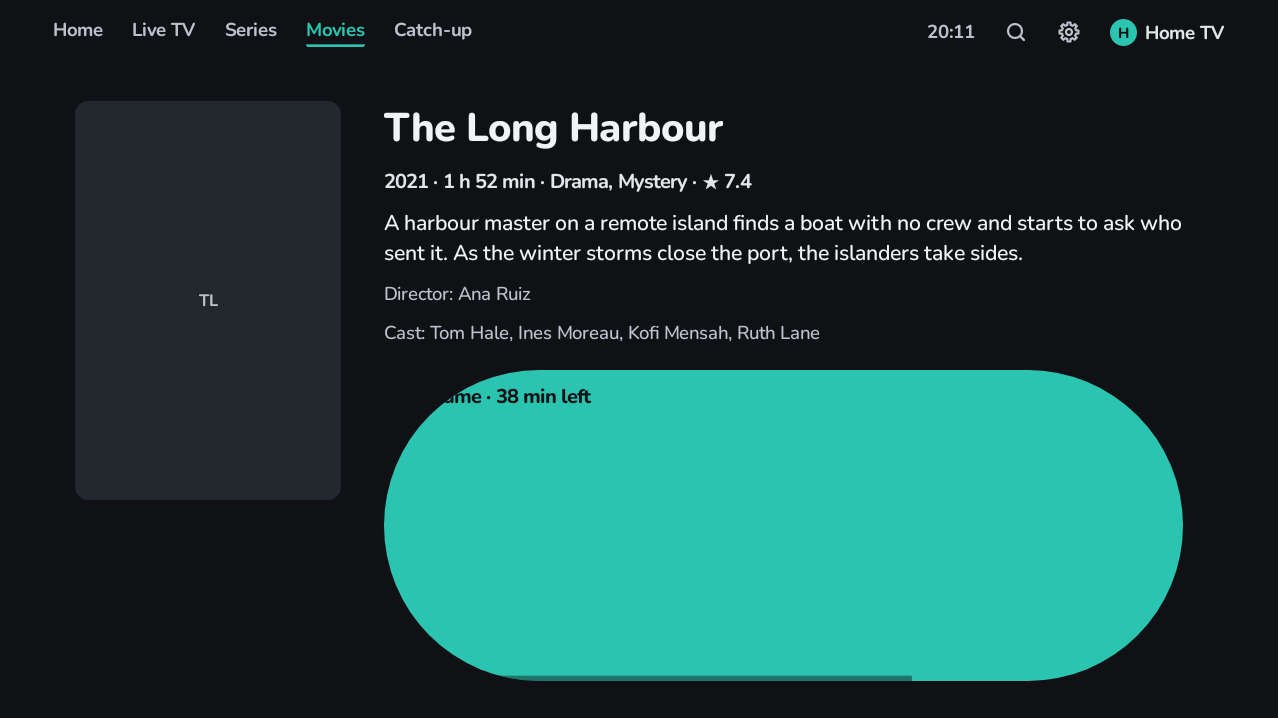
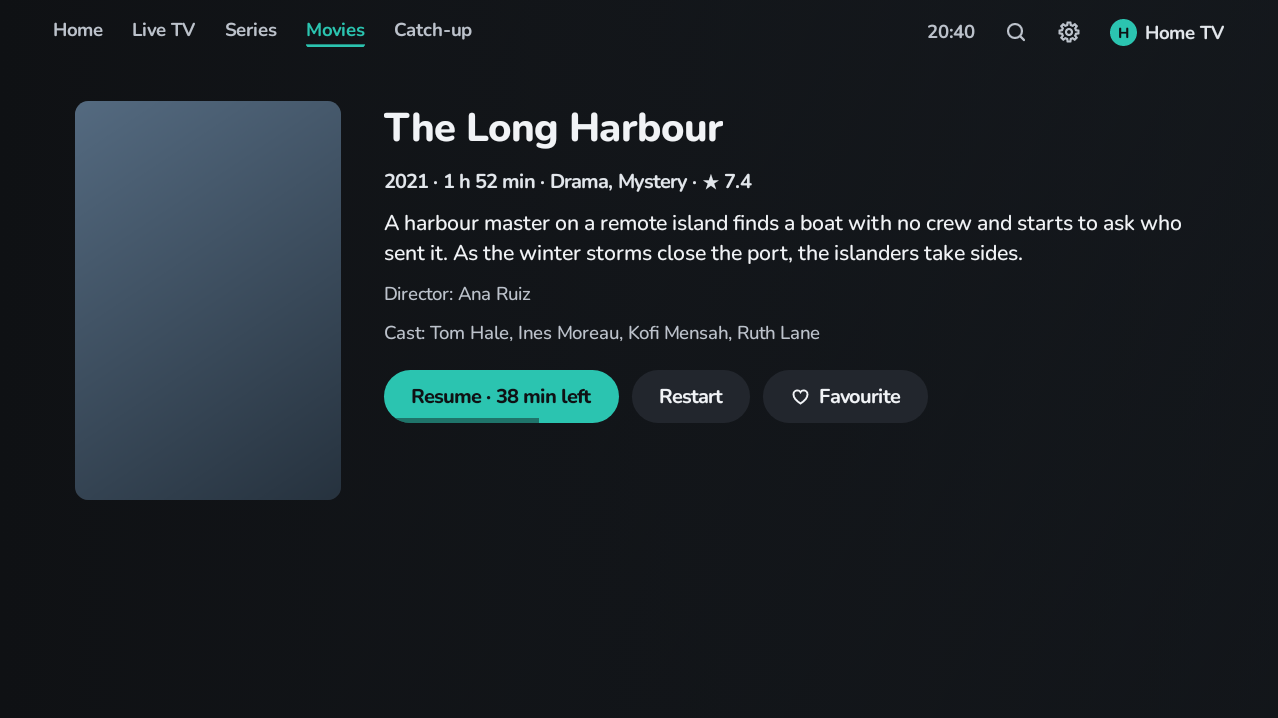
Redesign: Resume is a normal pill, series plot up to 4 lines
- The progress bar under Resume took the whole row and made the button
  fill the area under the cast line. The bar is now a layer that takes
  the button's size, so Restart and Favourite show beside it again.
- The series plot in the left column now shows up to 4 lines.
- The film screenshot test checks that Resume is as high as Favourite
  and to its left.

Claude-Session: https://claude.ai/code/session_01XanGeKN99Wd1hmQc73eoBg

diff --git a/app/src/main/java/com/biskyt/mytvplayer/ui/vod/DetailsParts.kt b/app/src/main/java/com/biskyt/mytvplayer/ui/vod/DetailsParts.kt
@@ -3,8 +3,11 @@ package com.biskyt.mytvplayer.ui.vod
 import androidx.compose.foundation.background
 import androidx.compose.foundation.layout.Arrangement
 import androidx.compose.foundation.layout.Box
+import androidx.compose.foundation.layout.BoxScope
 import androidx.compose.foundation.layout.Row
 import androidx.compose.foundation.layout.fillMaxSize
+import androidx.compose.foundation.layout.fillMaxWidth
+import androidx.compose.foundation.layout.height
 import androidx.compose.foundation.layout.padding
 import androidx.compose.foundation.layout.size
 import androidx.compose.foundation.shape.RoundedCornerShape
@@ -12,9 +15,6 @@ import androidx.compose.runtime.Composable
 import androidx.compose.runtime.remember
 import androidx.compose.ui.Alignment
 import androidx.compose.ui.Modifier
-import androidx.compose.ui.draw.drawBehind
-import androidx.compose.ui.geometry.Offset
-import androidx.compose.ui.geometry.Size
 import androidx.compose.ui.graphics.Brush
 import androidx.compose.ui.graphics.Color
 import androidx.compose.ui.graphics.vector.ImageVector
@@ -106,7 +106,7 @@ private fun PillSurface(
     focusedBackground: Color,
     focusedContent: Color,
     ring: Boolean,
-    body: @Composable () -> Unit
+    body: @Composable BoxScope.() -> Unit
 ) = Surface(
     onClick = onClick,
     modifier = modifier.onTap(onClick = onClick),
@@ -122,19 +122,16 @@ private fun PillSurface(
     border = if (ring) ClickableSurfaceDefaults.border(focusedBorder = Border(FocusStroke)) else ClickableSurfaceDefaults.border()
 ) { Box { body() } }
 
-/** How far into the film: a 4 px bar along the bottom of its button, in the page's background at 45 %. */
+/**
+ * How far into the film: a 4 px bar along the bottom of its button, in the page's background at 45 %. It takes the
+ * button's size and does not set it.
+ */
 @Composable
-private fun ButtonProgress(fraction: Float) {
-    Box(
-        Modifier.fillMaxSize().drawBehind {
-            val h = 4.bd.toPx()
-            drawRect(
-                Palette.background.copy(alpha = 0.45f),
-                topLeft = Offset(0f, size.height - h),
-                size = Size(size.width * fraction.coerceIn(0f, 1f), h)
-            )
-        }
-    )
+private fun BoxScope.ButtonProgress(fraction: Float) {
+    // matchParentSize: measured after the text, so the bar never makes the button larger.
+    Box(Modifier.matchParentSize(), contentAlignment = Alignment.BottomStart) {
+        Box(Modifier.fillMaxWidth(fraction.coerceIn(0f, 1f)).height(4.bd).background(Palette.background.copy(alpha = 0.45f)))
+    }
 }
 
 /** The backdrop, faded behind a gradient from the left, when there is one; nothing when there is none. */

diff --git a/app/src/test/java/com/biskyt/mytvplayer/ui/DetailPagesScreenshotTest.kt b/app/src/test/java/com/biskyt/mytvplayer/ui/DetailPagesScreenshotTest.kt
@@ -11,6 +11,8 @@ import androidx.compose.foundation.layout.fillMaxSize
 import androidx.compose.runtime.remember
 import androidx.compose.ui.Modifier
 import androidx.compose.ui.semantics.SemanticsActions
+import androidx.compose.ui.test.assertIsDisplayed
+import androidx.compose.ui.test.getBoundsInRoot
 import androidx.compose.ui.test.hasClickAction
 import androidx.compose.ui.test.hasText
 import androidx.compose.ui.test.onRoot
@@ -33,6 +35,7 @@ import com.github.takahirom.roborazzi.captureRoboImage
 import java.io.ByteArrayOutputStream
 import kotlinx.coroutines.runBlocking
 import org.junit.After
+import org.junit.Assert.assertEquals
 import org.junit.Assert.assertTrue
 import org.junit.Rule
 import org.junit.Test
@@ -108,6 +111,11 @@ class DetailPagesScreenshotTest {
         compose.waitForText("Resume · 38 min left")
         compose.waitForText("Director: Ana Ruiz")
         compose.waitAdvancingClock { compose.focusedText().contains("Resume") }
+        // The progress bar must not size its button: Resume is a pill as high as Favourite, beside it on the screen.
+        val resume = compose.onNode(hasText("Resume · 38 min left") and hasClickAction()).getBoundsInRoot()
+        val favourite = compose.onNode(hasText("Favourite") and hasClickAction()).assertIsDisplayed().getBoundsInRoot()
+        assertEquals((favourite.bottom - favourite.top).value, (resume.bottom - resume.top).value, 1f)
+        assertTrue(resume.right < favourite.left)
         compose.onRoot().captureRoboImage("screenshots/redesign-film.png")
     }
 

diff --git a/app/src/main/java/com/biskyt/mytvplayer/ui/vod/SeriesDetailsScreen.kt b/app/src/main/java/com/biskyt/mytvplayer/ui/vod/SeriesDetailsScreen.kt
@@ -280,8 +280,8 @@ fun SeriesColumn(
             )
         }
         extraFacts()
-        // 2 lines, so that Continue and Favourite fit under it.
-        d?.info?.plot?.let { Text(it, style = SeriesPlot.current, maxLines = 2, overflow = TextOverflow.Ellipsis) }
+        // 4 lines at most: the column scrolls, so the buttons stay in reach.
+        d?.info?.plot?.let { Text(it, style = SeriesPlot.current, maxLines = 4, overflow = TextOverflow.Ellipsis) }
         // Room under the last button for its focus ring: the scrolled column clips what is outside it.
         Column(
             Modifier.padding(top = 4.bd, bottom = FocusStroke.width),
